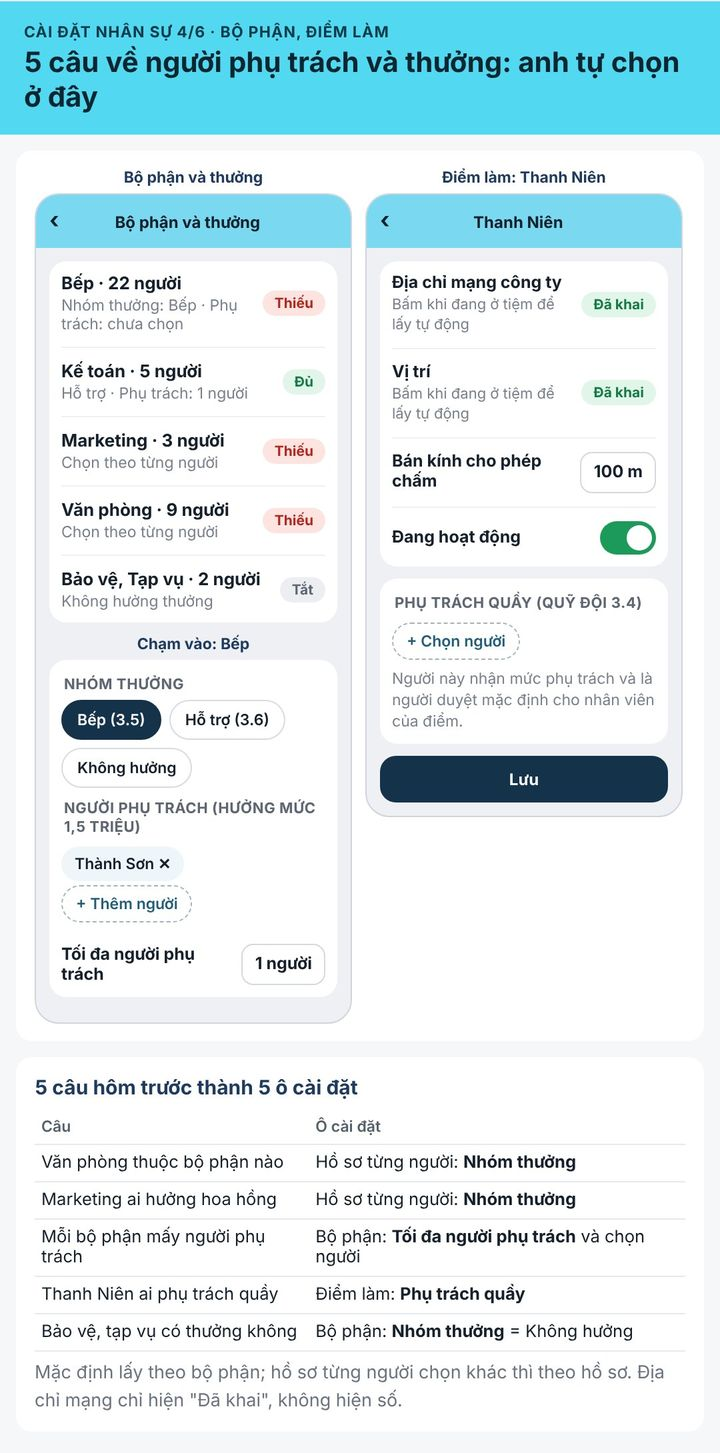
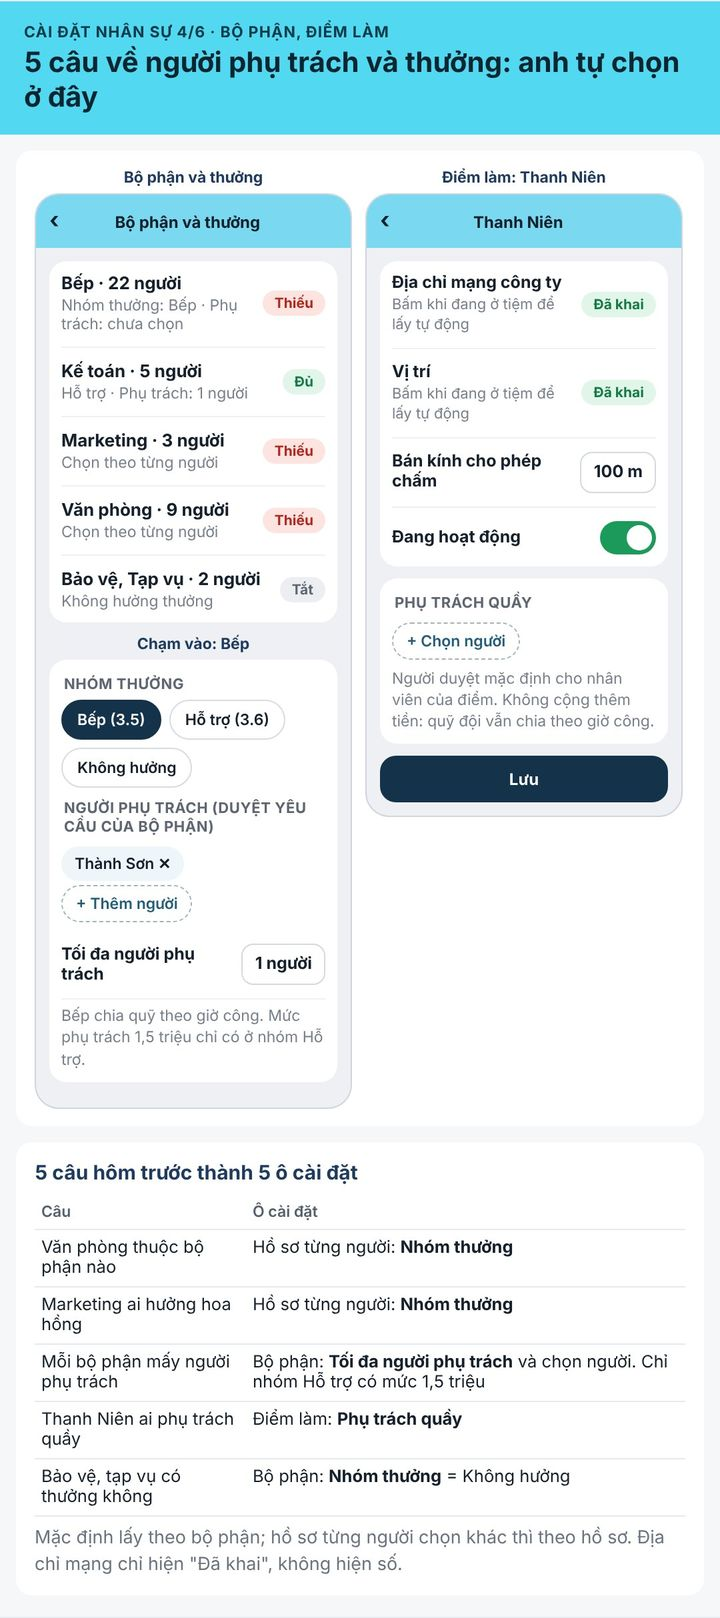
Hoa hồng: chốt foodapp giảm trơn và luật làm không trọn quý; tách vai phụ trách khỏi quyền hưởng thưởng (góp ý Codex 196d5e7)
Claude-Session: https://claude.ai/code/session_0111WozM7s5LLQwkD9ysUPvE

Changed region(s): [[0.0, 0.0, 1.0, 0.6813], [0.0306, 0.7123, 0.9167, 0.9911], [0.3972, 0.4026, 0.4278, 0.4336]]

diff --git a/docs/nhan-su/de-xuat-chuyen-ipos-hrm-11-2026.md b/docs/nhan-su/de-xuat-chuyen-ipos-hrm-11-2026.md
@@ -83,7 +83,7 @@ Nguyên tắc: không chép lượt chấm cũ từ iPOS sang; chỉ nhập số
 
 ## 7. Cài đặt nhân sự
 
-Anh Việt chốt tối 28/11: mọi phần đều phải tự cài được, có ô Cài đặt trong mục Nhân sự, tham khảo Cài đặt của iPOS HRM. Em đọc đủ 6 thẻ Cài đặt, form Thêm mới ca làm việc và màn Quy trình phê duyệt của iPOS (chỉ xem, không lưu).
+Anh Việt chốt tối 28/11: mọi phần đều phải tự cài được, có ô Cài đặt trong mục Nhân sự, tham khảo Cài đặt của iPOS HRM. Anh duyệt 6 ảnh cùng tối; ảnh 4 sửa sau đó theo góp ý Codex để tách vai người phụ trách khỏi quyền hưởng thưởng. Em đọc đủ 6 thẻ Cài đặt, form Thêm mới ca làm việc và màn Quy trình phê duyệt của iPOS (chỉ xem, không lưu).
 
 Luật chung cho mọi cài đặt:
 - Chỉ giám đốc và kế toán sửa được.
@@ -113,7 +113,7 @@ Danh sách ô và mặc định. Mặc định lấy đúng giá trị iPOS củ
 | Chung | Nhân viên tự gửi xin nghỉ việc | Bật |
 | Điểm làm | Địa chỉ, vị trí, địa chỉ mạng công ty (bấm lấy tự động khi đang ở tiệm) | Khai mỗi điểm |
 | Điểm làm | Bán kính cho phép chấm | 100 m |
-| Điểm làm | Phụ trách quầy (hưởng mức phụ trách quỹ đội 3.4, là người duyệt mặc định của điểm) | Chưa chọn |
+| Điểm làm | Phụ trách quầy: người duyệt mặc định của điểm, không cộng thêm tiền (quỹ đội chia theo giờ công) | Chưa chọn |
 | Điểm làm | Đang hoạt động | Theo iPOS |
 | Ca | Điểm, bộ phận áp dụng; giờ ca; nghỉ giữa ca | Theo 8 ca trên iPOS |
 | Ca | Được phép đi muộn, về sớm (phút) | 0 |
@@ -140,7 +140,7 @@ Danh sách ô và mặc định. Mặc định lấy đúng giá trị iPOS củ
 | Yêu cầu và duyệt | Xoay ca, Xin ra ngoài trong ca | Tắt |
 | Loại nghỉ | Có lương (mới), số ngày mỗi năm, tối đa mỗi tháng, chuyển năm sau (mới), áp dụng cho, áp dụng từ | Theo 8 loại trên iPOS |
 | Bộ phận và thưởng | Nhóm thưởng của bộ phận: Sales, Marketing, Quản lý cửa hàng, Quầy và bar, Bếp, Hỗ trợ, Không hưởng | Theo bảng ghép mục 3.9 đề xuất hoa hồng |
-| Bộ phận và thưởng | Người phụ trách và tối đa số người phụ trách | Chưa chọn; 1 người |
+| Bộ phận và thưởng | Người phụ trách (người duyệt yêu cầu của bộ phận) và tối đa số người phụ trách. Chỉ nhóm Hỗ trợ có mức phụ trách 1,5 triệu (3.6 đề xuất hoa hồng) | Chưa chọn; 1 người |
 | Nhân viên (hồ sơ) | Nhóm thưởng riêng của từng người, đè lên nhóm của bộ phận | Để trống = theo bộ phận |
 | Bảng công | Kỳ công (mới) | Hàng tháng, ngày 1 |
 | Bảng công | Quản lý sửa công sau khi hết tuần; sửa sau khi khoá kỳ | 1 ngày; 0 ngày |
@@ -152,7 +152,7 @@ Năm câu về người phụ trách hôm 28/11 giờ thành ô cài đặt, anh
 |---|---|
 | 9 người Văn phòng thuộc bộ phận nào | Nhóm thưởng trên hồ sơ từng người |
 | 3 người Marketing ai hưởng hoa hồng Marketing | Nhóm thưởng trên hồ sơ từng người |
-| Mỗi bộ phận mấy người phụ trách | Tối đa người phụ trách và chọn người, ở Bộ phận và thưởng |
+| Mỗi bộ phận mấy người phụ trách | Tối đa người phụ trách và chọn người, ở Bộ phận và thưởng. Chỉ nhóm Hỗ trợ có mức 1,5 triệu; quầy và bếp có thêm khoản riêng hay không là Q8 của đề xuất hoa hồng |
 | Thanh Niên ai phụ trách quầy | Phụ trách quầy, ở Điểm làm |
 | Bảo vệ, tạp vụ có thưởng không | Nhóm thưởng của bộ phận = Không hưởng |
 
